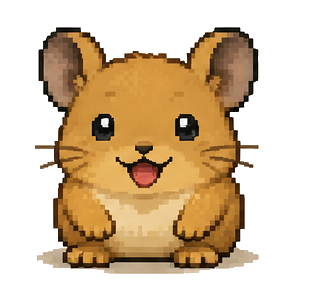
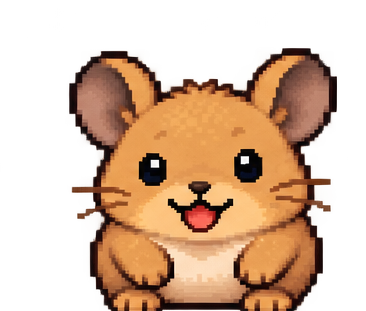
fix: still buddy sprites and uncropped diorama backdrops

diff --git a/src/styles.css b/src/styles.css
@@ -892,7 +892,6 @@ img {
 .diorama {
   position: relative;
   width: 100%;
-  aspect-ratio: 16 / 10;
   border-radius: var(--radius-xl);
   overflow: hidden;
   border: var(--border-thick) solid var(--color-border);
@@ -906,28 +905,28 @@ img {
 
 .diorama__art {
   image-rendering: pixelated;
+  image-rendering: -webkit-optimize-contrast;
   image-rendering: -moz-crisp-edges;
   image-rendering: crisp-edges;
   -ms-interpolation-mode: nearest-neighbor;
 }
 
 .diorama__backdrop {
-  position: absolute;
-  inset: 0;
+  position: relative;
+  display: block;
   width: 100%;
-  height: 100%;
-  object-fit: cover;
+  height: auto;
+  object-fit: contain;
 }
 
 .diorama__pet {
   position: absolute;
   left: 50%;
-  bottom: 6%;
-  width: 44%;
+  bottom: 8%;
+  width: 36%;
   height: auto;
   object-fit: contain;
   transform: translateX(-50%);
-  animation: buddy-bob calc(var(--duration-slow) * 2) ease-in-out infinite alternate;
 }
 
 .diorama--preview .diorama__pet,
@@ -970,11 +969,6 @@ img {
 }
 
 .pick-tile__art--wide {
-  object-fit: cover;
+  object-fit: contain;
   border-radius: var(--radius-sm);
-}
-
-@keyframes buddy-bob {
-  from { transform: translateX(-50%) translateY(0); }
-  to { transform: translateX(-50%) translateY(calc(var(--space-sm) * -1)); }
 }

diff --git a/src/lib/characterArt.ts b/src/lib/characterArt.ts
@@ -1,9 +1,11 @@
 import type { BackgroundOption, CharacterType, PetStatus } from '../types/character';
 
+const ART_REV = '2';
+
 export function characterArtSrc(animalType: CharacterType, status: PetStatus): string {
-  return `/buddy/${animalType}-${status}.png`;
+  return `/buddy/${animalType}-${status}.png?v=${ART_REV}`;
 }
 
 export function backdropArtSrc(background: BackgroundOption): string {
-  return `/buddy/bg-${background}.png`;
+  return `/buddy/bg-${background}.png?v=${ART_REV}`;
 }
